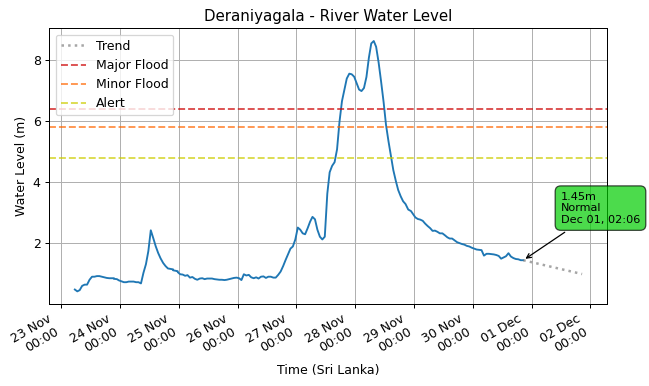
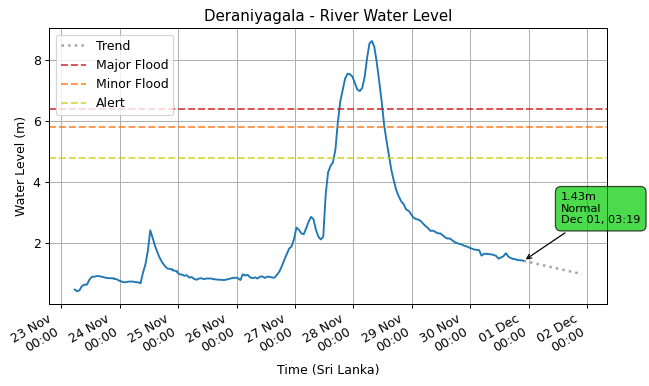
🤖 [update_latest.yml] 2025-11-30-2202

diff --git a/README.md b/README.md
@@ -1,11 +1,11 @@
 # lk_irrigation 🇱🇰
 
 ![Status: Live](https://img.shields.io/badge/status-live-brightgreen)
-![LastUpdated](https://img.shields.io/badge/last_updated-2025--12--01_03:13:43-green)
+![LastUpdated](https://img.shields.io/badge/last_updated-2025--12--01_03:22:02-green)
 
 Realtime Data about *River Water Levels* in Sri Lanka, from the [Irrigation Deptartment](https://www.irrigation.gov.lk)'s [Hydrology and Disaster Management](https://www.irrigation.gov.lk/web/index.php?option=com_content&view=article&id=27&Itemid=128&lang=en) Division.
 
-- [Complete Dataset](data/rwlds) with **6,339 measurements** from **39** stations.
+- [Complete Dataset](data/rwlds) with **6,343 measurements** from **39** stations.
 - [Scrape and load logic](src/lk_irrigation/rwld/RiverWaterLevelDataLoadMixin.py)
 - [Original Data source](https://www.arcgis.com/apps/dashboards/2cffe83c9ff5497d97375498bdf3ff38)
 
@@ -15,10 +15,14 @@ Realtime Data about *River Water Levels* in Sri Lanka, from the [Irrigation Dept
 
 ## Latest measurements
 
-*There were **22** measurements in the last **1 hour**.*
+*There were **26** measurements in the last **1 hour**.*
 
 | Measured At | Station (River Basin) | Level (m) | Alert Level | Rate-of-Rise (m/hr) | Rising Alert |
 | --- | --- | ---: | --- | ---: | --- |
+| 2025-12-01 03:22:02 | Dunamale (Aththanagalu Oya) | 4.74 | 🟠 Minor Flood | -0.045 |  |
+| 2025-12-01 03:21:15 | Putupaula (Kalu Ganga) | 4.29 | 🟠 Minor Flood | 0.000 |  |
+| 2025-12-01 03:20:45 | Norwood (Kelani Ganga) | 1.33 | 🟢 Normal | -0.023 |  |
+| 2025-12-01 03:19:15 | Deraniyagala (Kelani Ganga) | 1.43 | 🟢 Normal | -0.017 |  |
 | 2025-12-01 03:13:43 | Thawalama (Gin Ganga) | 2.09 | 🟢 Normal | 0.000 |  |
 | 2025-12-01 03:09:24 | Wellawaya (Kirindi Oya) | 1.23 | 🟢 Normal | 0.000 |  |
 | 2025-12-01 03:07:55 | Thanamalwila (Kirindi Oya) | 1.62 | 🟢 Normal | -0.020 |  |
@@ -57,22 +61,21 @@ Realtime Data about *River Water Levels* in Sri Lanka, from the [Irrigation Dept
 | 2025-11-27 08:02:16⌛ | Thaldena (Mahaweli Ganga) | 4.25 | 🟠 Minor Flood | 0.050 | 🔺 Rising |
 | 2025-11-27 18:42:59⌛ | Galgamuwa (Mee Oya) | 6.12 | 🟠 Minor Flood | 0.045 | 🔺 Rising |
 | 2025-11-30 14:56:34 | Ellagawa (Kalu Ganga) | 11.94 | 🟠 Minor Flood | 0.044 | 🔺 Rising |
-| 2025-12-01 02:11:32 | Putupaula (Kalu Ganga) | 4.29 | 🟠 Minor Flood | 0.000 |  |
+| 2025-12-01 03:21:15 | Putupaula (Kalu Ganga) | 4.29 | 🟠 Minor Flood | 0.000 |  |
 | 2025-12-01 03:06:12 | Kalawellawa (Millakanda) (Kalu Ganga) | 7.46 | 🟠 Minor Flood | -0.041 |  |
-| 2025-12-01 02:02:20 | Dunamale (Aththanagalu Oya) | 4.80 | 🟠 Minor Flood | -0.050 |  |
+| 2025-12-01 03:22:02 | Dunamale (Aththanagalu Oya) | 4.74 | 🟠 Minor Flood | -0.045 |  |
 | 2025-12-01 03:07:00 | Hanwella (Kelani Ganga) | 9.95 | 🟠 Minor Flood | -0.088 |  |
 | 2025-12-01 01:02:59 | Horowpothana (Yan Oya) | 7.41 | 🟡 Alert | -0.019 |  |
 | 2025-12-01 03:04:32 | Rathnapura (Kalu Ganga) | 6.00 | 🟡 Alert | -0.060 |  |
 | 2025-12-01 00:24:57 | Badalgama (Maha Oya) | 5.05 | 🟡 Alert | -0.313 |  |
-| 2025-12-01 02:03:53 | Norwood (Kelani Ganga) | 1.36 | 🟢 Normal | 0.020 | 🔺 Rising |
 | 2025-12-01 03:09:24 | Wellawaya (Kirindi Oya) | 1.23 | 🟢 Normal | 0.000 |  |
-| 2025-12-01 02:06:43 | Deraniyagala (Kelani Ganga) | 1.45 | 🟢 Normal | 0.000 |  |
 | 2025-12-01 03:05:46 | Baddegama (Gin Ganga) | 2.24 | 🟢 Normal | 0.000 |  |
 | 2025-12-01 03:02:06 | Siyambalanduwa (Heda Oya) | 1.25 | 🟢 Normal | 0.000 |  |
 | 2025-12-01 03:05:11 | Katharagama (Menik Ganga) | 0.94 | 🟢 Normal | 0.000 |  |
 | 2025-12-01 03:13:43 | Thawalama (Gin Ganga) | 2.09 | 🟢 Normal | 0.000 |  |
 | 2025-12-01 02:01:36 | Kuda Oya (Kirindi Oya) | 1.94 | 🟢 Normal | 0.000 |  |
 | 2025-12-01 03:06:15 | Thalgahagoda (Nilwala Ganga) | 1.01 | 🟢 Normal | -0.010 |  |
+| 2025-12-01 03:19:15 | Deraniyagala (Kelani Ganga) | 1.43 | 🟢 Normal | -0.017 |  |
 | 2025-12-01 03:05:25 | Yaka Wewa (Ma Oya) | 1.27 | 🟢 Normal | -0.019 |  |
 | 2025-12-01 03:02:27 | Pitabeddara (Nilwala Ganga) | 1.10 | 🟢 Normal | -0.020 |  |
 | 2025-12-01 02:08:18 | Holombuwa (Kelani Ganga) | 1.45 | 🟢 Normal | -0.020 |  |
@@ -81,6 +84,7 @@ Realtime Data about *River Water Levels* in Sri Lanka, from the [Irrigation Dept
 | 2025-12-01 03:02:46 | Urawa (Nilwala Ganga) | 0.75 | 🟢 Normal | -0.020 |  |
 | 2025-11-30 14:03:57 | Padiyathalawa (Maduru Oya) | 1.17 | 🟢 Normal | -0.021 |  |
 | 2025-12-01 03:04:00 | Panadugama (Nilwala Ganga) | 3.51 | 🟢 Normal | -0.021 |  |
+| 2025-12-01 03:20:45 | Norwood (Kelani Ganga) | 1.33 | 🟢 Normal | -0.023 |  |
 | 2025-12-01 03:05:04 | Moraketiya (Walawe Ganga) | 1.30 | 🟢 Normal | -0.036 |  |
 | 2025-12-01 03:02:58 | Kithulgala (Kelani Ganga) | 2.35 | 🟢 Normal | -0.045 |  |
 | 2025-12-01 02:05:50 | Magura (Kalu Ganga) | 2.30 | 🟢 Normal | -0.055 |  |
@@ -154,17 +158,9 @@ Realtime Data about *River Water Levels* in Sri Lanka, from the [Irrigation Dept
 
 ![Badalgama](images/stations/badalgama.png)
 
-### Norwood (Kelani Ganga)
-
-![Norwood](images/stations/norwood.png)
-
 ### Wellawaya (Kirindi Oya)
 
 ![Wellawaya](images/stations/wellawaya.png)
-
-### Deraniyagala (Kelani Ganga)
-
-![Deraniyagala](images/stations/deraniyagala.png)
 
 ### Baddegama (Gin Ganga)
 
@@ -189,6 +185,10 @@ Realtime Data about *River Water Levels* in Sri Lanka, from the [Irrigation Dept
 ### Thalgahagoda (Nilwala Ganga)
 
 ![Thalgahagoda](images/stations/thalgahagoda.png)
+
+### Deraniyagala (Kelani Ganga)
+
+![Deraniyagala](images/stations/deraniyagala.png)
 
 ### Yaka Wewa (Ma Oya)
 
@@ -221,6 +221,10 @@ Realtime Data about *River Water Levels* in Sri Lanka, from the [Irrigation Dept
 ### Panadugama (Nilwala Ganga)
 
 ![Panadugama](images/stations/panadugama.png)
+
+### Norwood (Kelani Ganga)
+
+![Norwood](images/stations/norwood.png)
 
 ### Moraketiya (Walawe Ganga)
 
